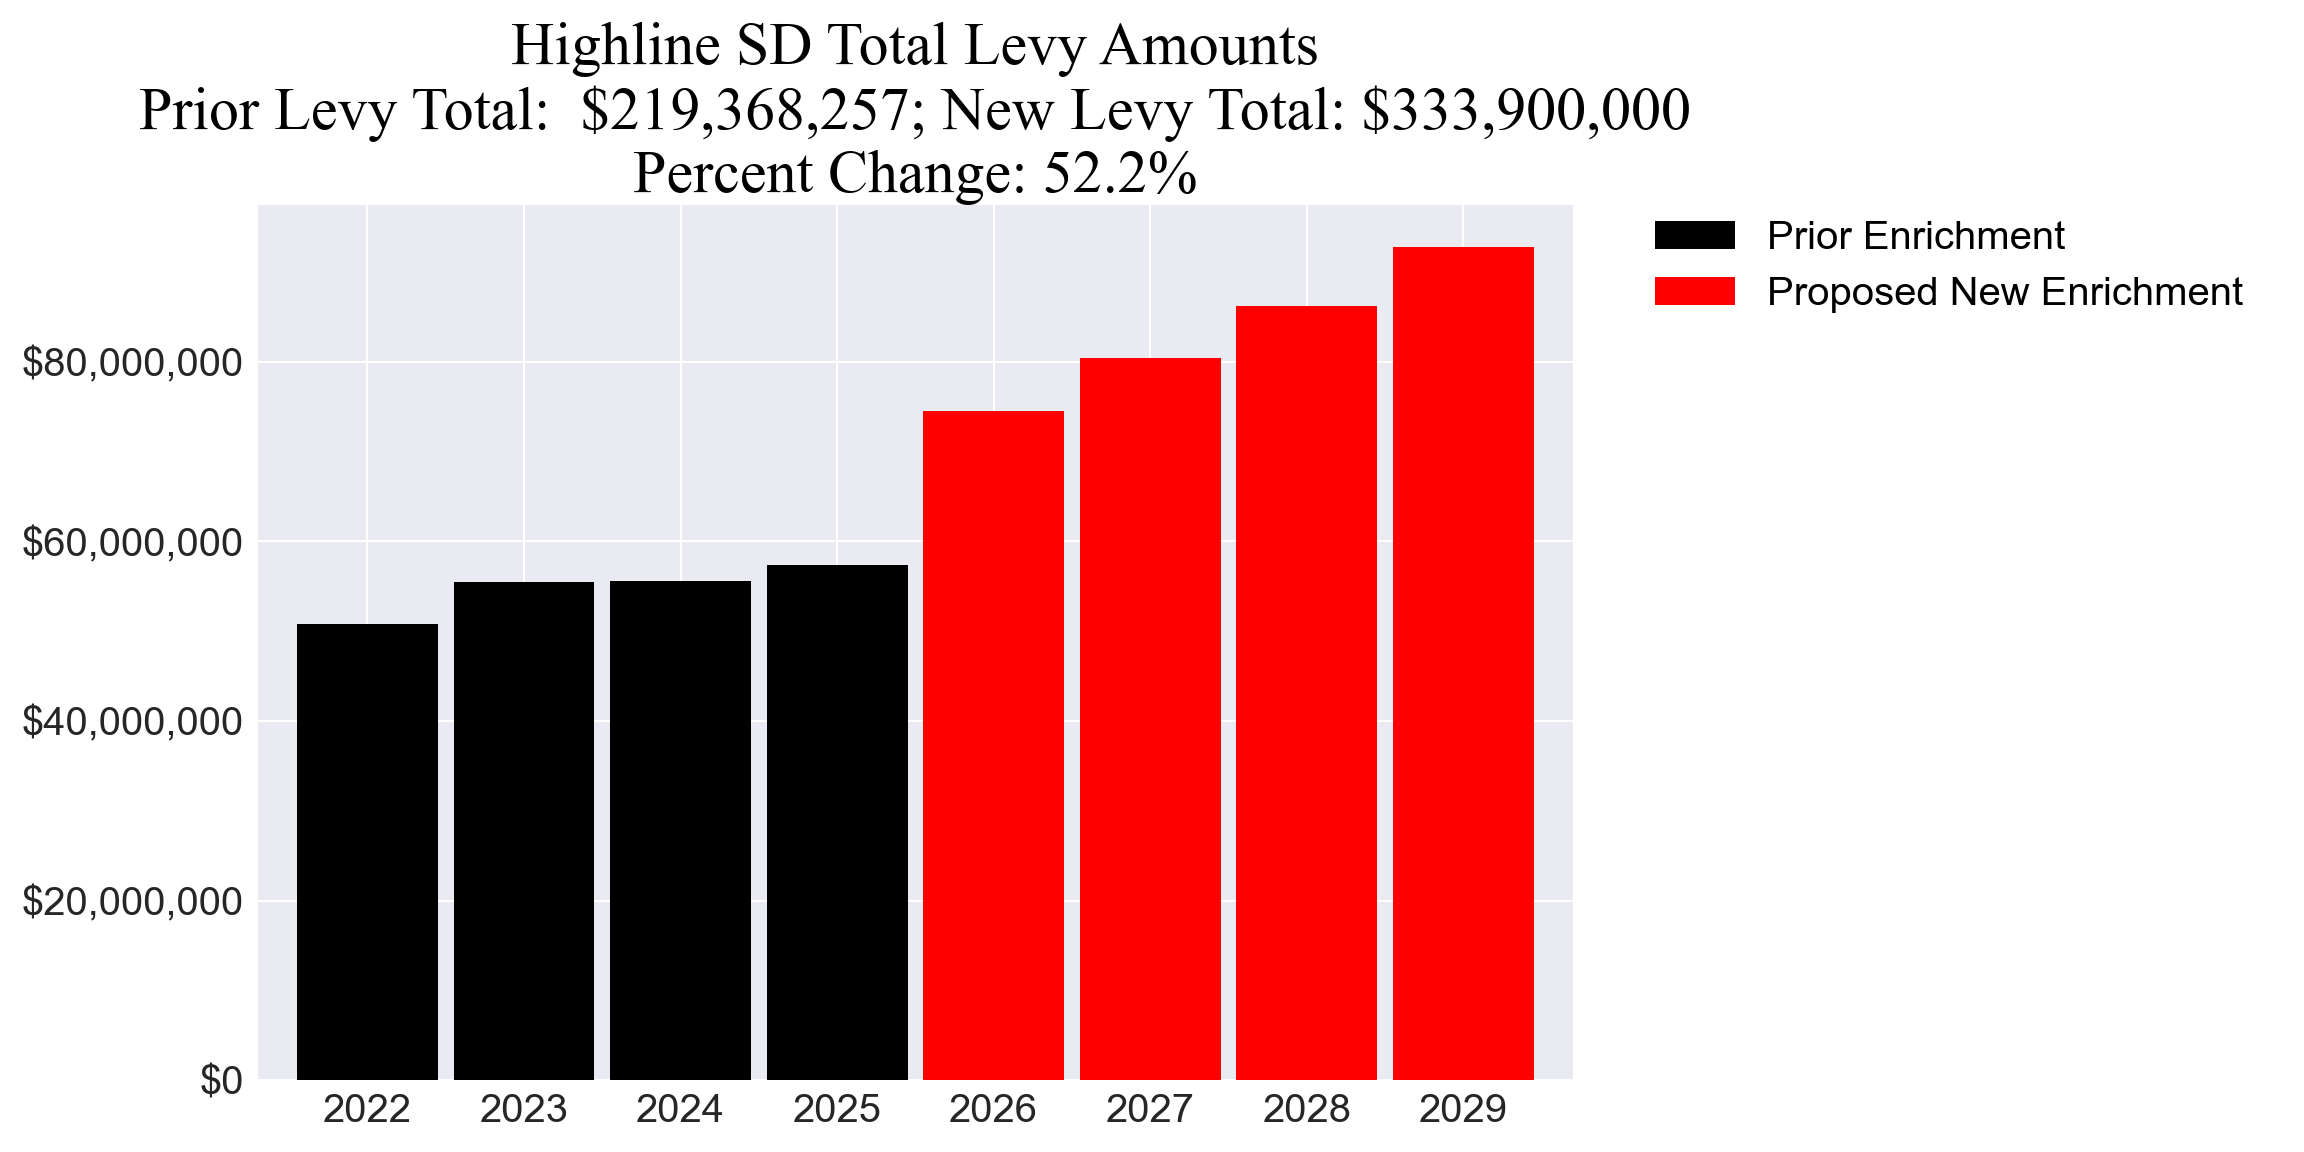
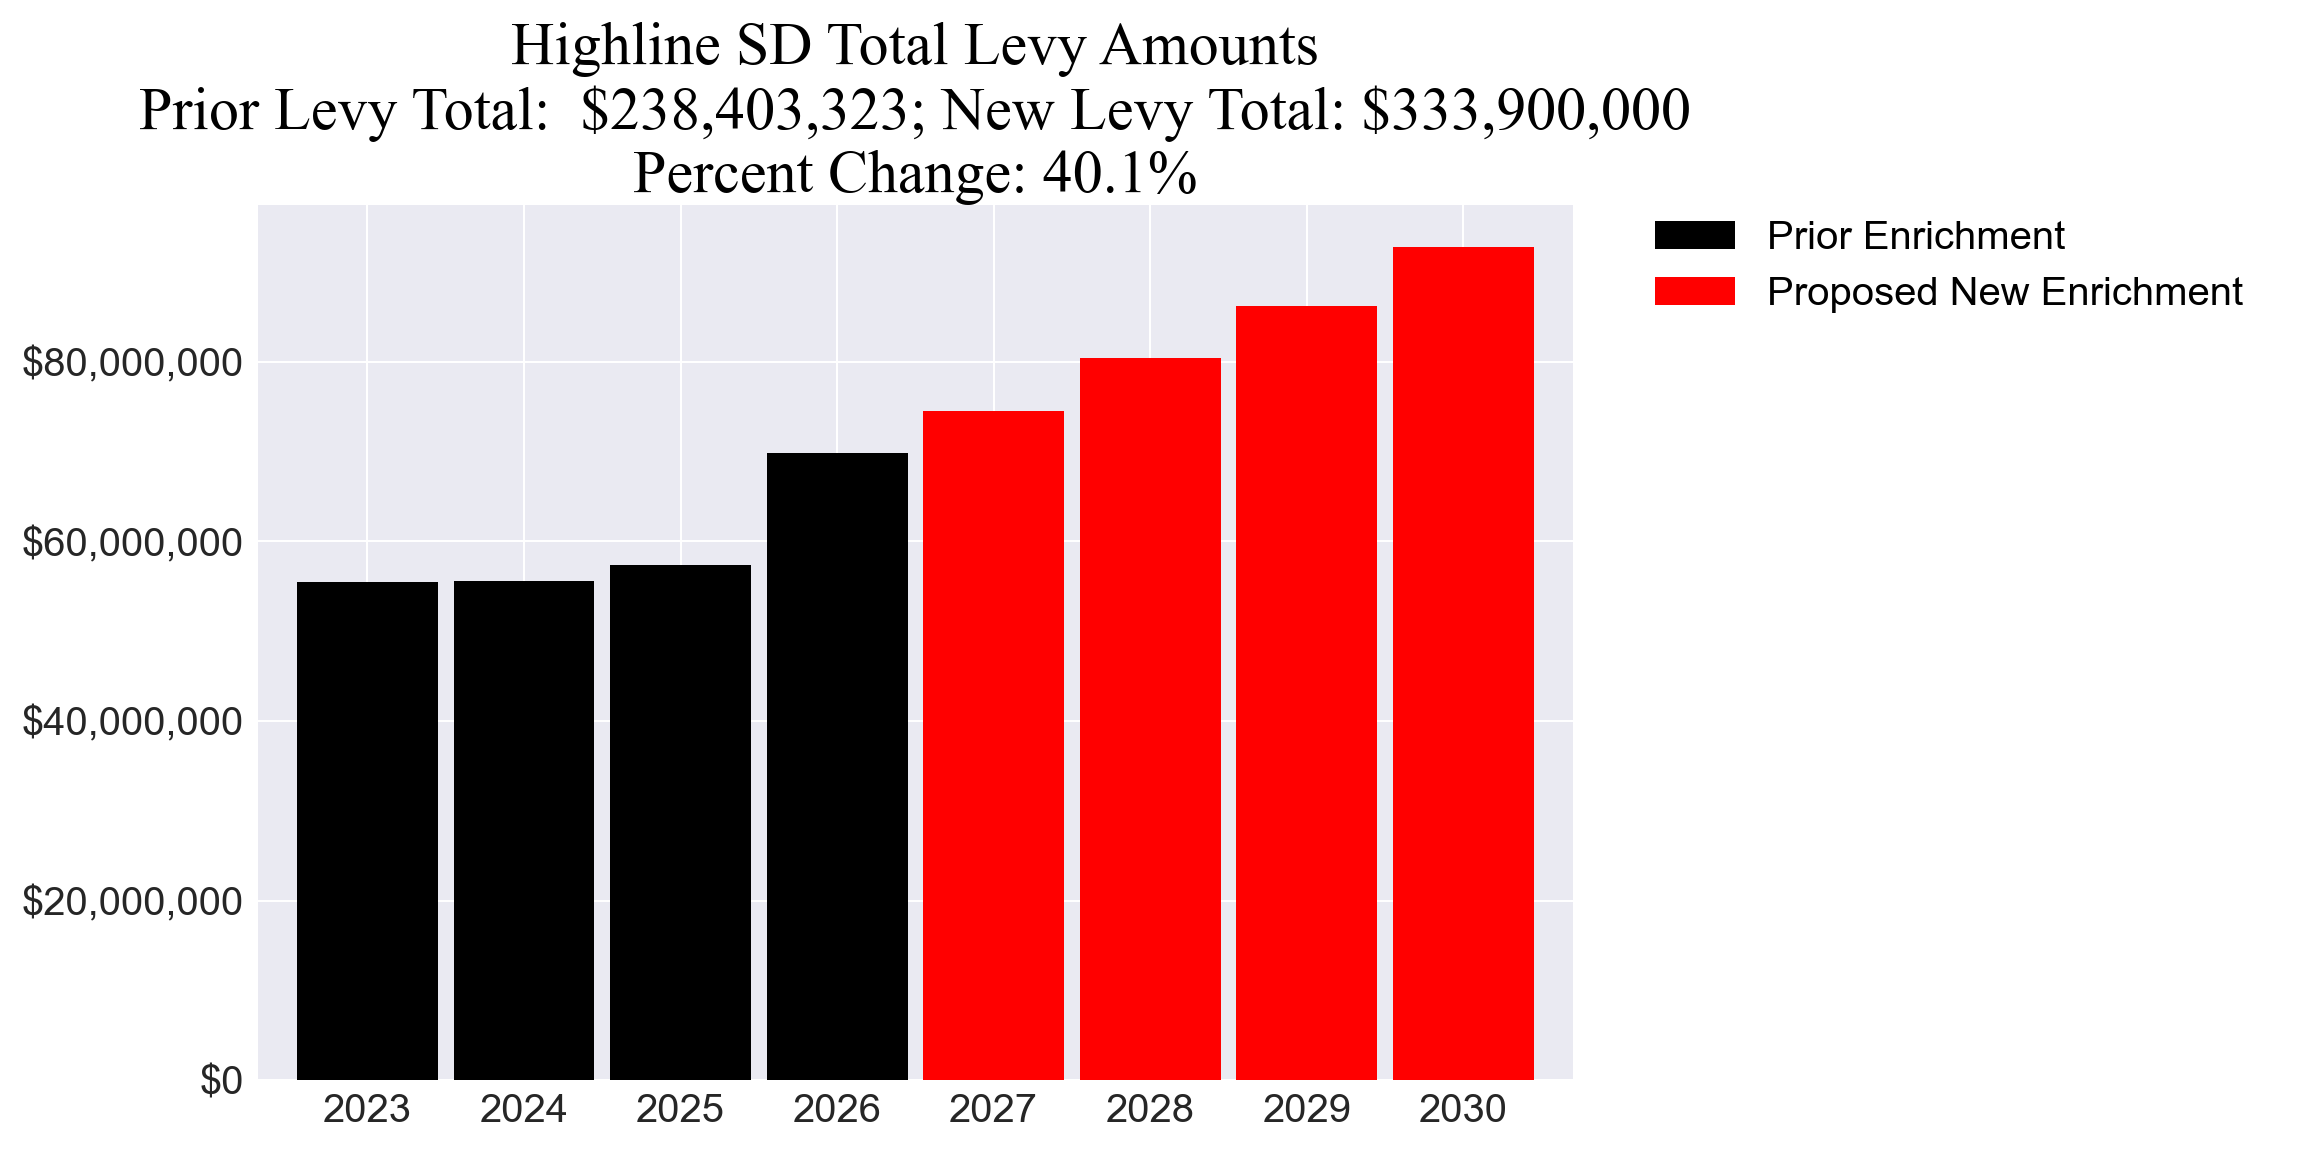
Updated Highline SD levy

diff --git a/_includes/cost_estimates/20251104/HighlineEnrichmentLevyTable_20251104.html b/_includes/cost_estimates/20251104/HighlineEnrichmentLevyTable_20251104.html
@@ -23,7 +23,7 @@ table, th, td {
 	sampleParcelPOF = sampleParcelAV / totalLevyAV;
 	totalLevyCostParcel = sampleParcelPOF * totalLevyCost;
 	levyYears = 4;
-	levyStartYearOffset = 1;
+	levyStartYearOffset = 2;
 	averageTotalLevyCostParcel = totalLevyCostParcel / levyYears;
 	// Total AV Annual Change Percent
 	totalAVChange0 = 0.0;
@@ -67,10 +67,11 @@ table, th, td {
 
 		data.addRows([
 				['2025', 0, 31544155270, 0.0, 0, 0, 0.0, 0, 0, 0, 0.0, 0.0, 0],
-			['2026', 74500000, 31544155270, 0.0, 0, 0, 0.0, 0, 0, 0, 0.0, 0.0, 0],
-			['2027', 80400000, 31544155270, 0.0, 0, 0, 0.0, 0, 0, 0, 0.0, 0.0, 0],
-			['2028', 86200000, 31544155270, 0.0, 0, 0, 0.0, 0, 0, 0, 0.0, 0.0, 0],
-			['2029', 92800000, 31544155270, 0.0, 0, 0, 0.0, 0, 0, 0, 0.0, 0.0, 0],
+			['2026', 0, 31544155270, 0.0, 0, 0, 0.0, 0, 0, 0, 0.0, 0.0, 0],
+			['2027', 74500000, 31544155270, 0.0, 0, 0, 0.0, 0, 0, 0, 0.0, 0.0, 0],
+			['2028', 80400000, 31544155270, 0.0, 0, 0, 0.0, 0, 0, 0, 0.0, 0.0, 0],
+			['2029', 86200000, 31544155270, 0.0, 0, 0, 0.0, 0, 0, 0, 0.0, 0.0, 0],
+			['2030', 92800000, 31544155270, 0.0, 0, 0, 0.0, 0, 0, 0, 0.0, 0.0, 0],
 
 		]);
 		
@@ -425,7 +426,7 @@ table, th, td {
   <p></p>
   <H3>Output (Results)</H3>
   <p>Estimated obligations for the example property</P>
-  <div id="table_output_general_div" style="width:1200px; height: 241px;"></div>
+  <div id="table_output_general_div" style="width:1200px; height: 268px;"></div>
   <div id="table_output_div" style="width:2000px; height: 150px;"></div>
   <H3>Usage</H3>
   <p>1) Select your property's 2025 Tax Year AV.</p>

diff --git a/_includes/cost_estimates/20251104/Highline_Enrichment_20251104_Enhanced.html b/_includes/cost_estimates/20251104/Highline_Enrichment_20251104_Enhanced.html
@@ -19,7 +19,7 @@
 	totalLevyCostParcel = sampleParcelPOF * totalLevyCost;
 	levyYears = 4;
 	averageTotalLevyCostParcel = totalLevyCostParcel / levyYears;
-	totalLevyPriorCost = 219368257;
+	totalLevyPriorCost = 238403323;
 	totalLevyPriorCostParcel = sampleParcelPOF * totalLevyPriorCost;
 	averageTotalLevyPriorCostParcel = totalLevyPriorCostParcel / levyYears;
 	// POF Annual Change Percent
@@ -37,14 +37,14 @@
 		data.addColumn('number', 'New Levy Amount');
 
 		data.addRows([
-			['2022', 50838421, 0],
 			['2023', 55523765, 0],
 			['2024', 55595709, 0],
 			['2025', 57410362, 0],
-			['2026', 0, 74500000],
-			['2027', 0, 80400000],
-			['2028', 0, 86200000],
-			['2029', 0, 92800000],
+			['2026', 69873487, 0],
+			['2027', 0, 74500000],
+			['2028', 0, 80400000],
+			['2029', 0, 86200000],
+			['2030', 0, 92800000],
 
 		]);
 
